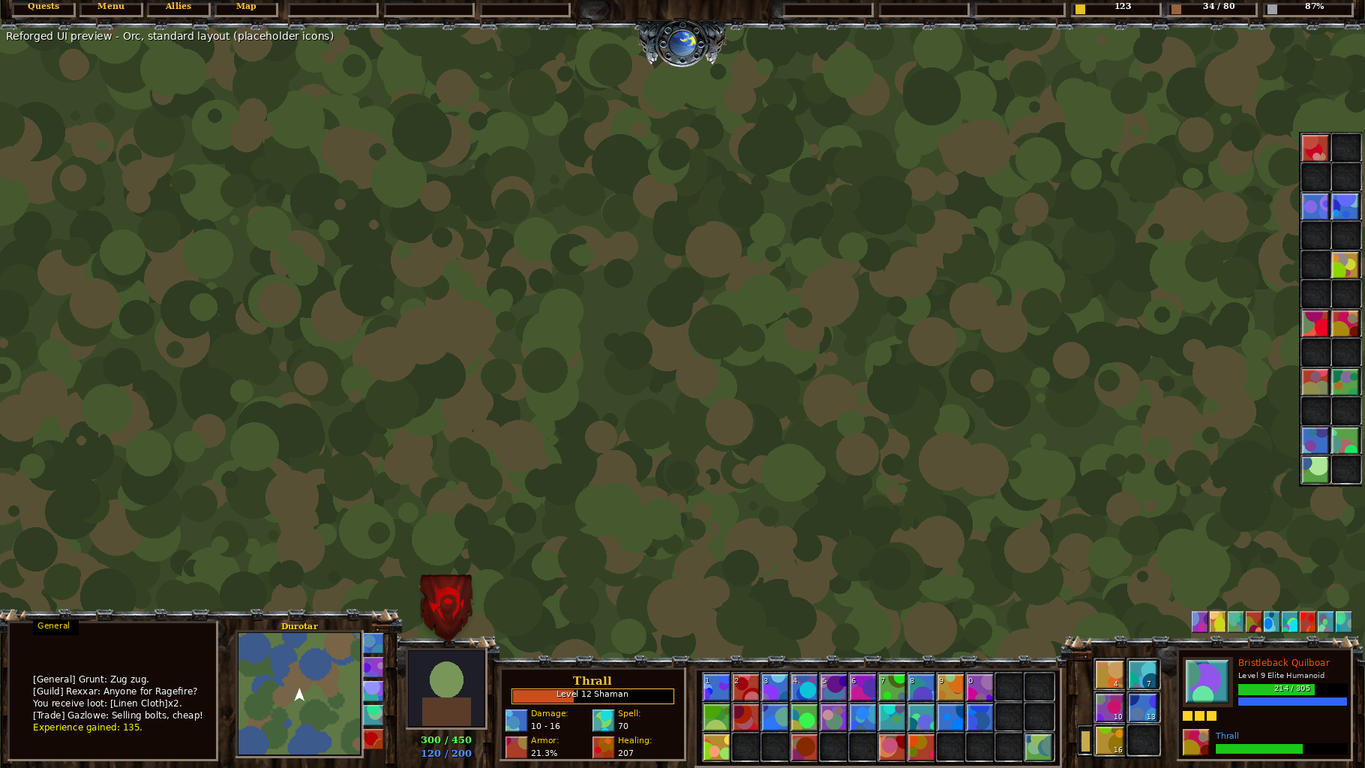
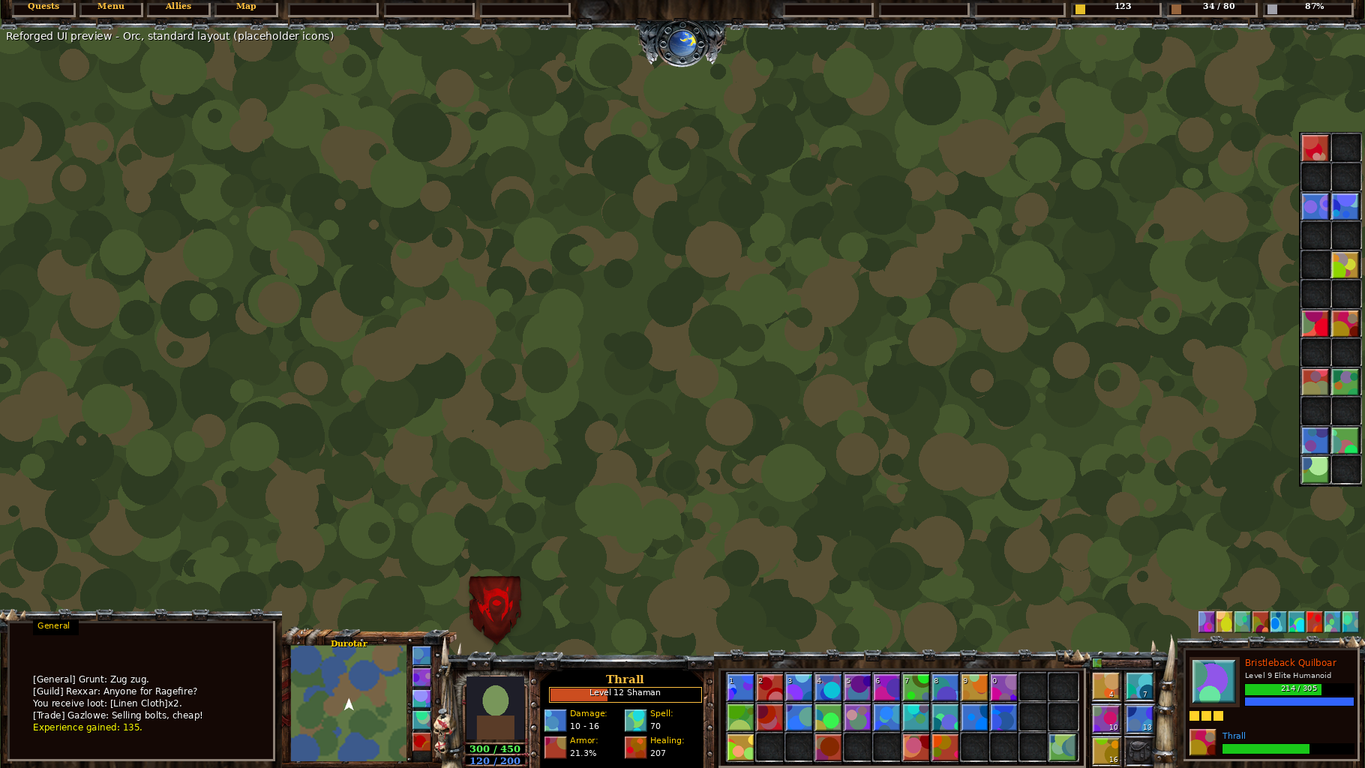
Build the minimap, portrait and bag blocks from the original addon's sections
The console now draws the original addon's minimap section (with its button column), its
arched portrait section with the hero screen, and its 2x3 inventory section,
and places the minimap, buttons, portrait, health/power text, stats and bag
slots in the windows painted into them. Chat, action bars 1-3 and the target
panel stay generic panels joined to the sections. The key ring sits on the
ledge above the bags.

Changed region(s): [[0.1538, 0.75, 1.0, 1.0]]

diff --git a/tools/render_preview.py b/tools/render_preview.py
@@ -190,9 +190,13 @@ def render(faction, w, h, profile, path, hour=15):
     panel(c, faction, L["base"], False)
     for p in L["panels"]:
         panel(c, faction, p, True)
+    for sec in L.get("sections", []):
+        tex = load(faction, "sections/" + sec["key"])
+        u1 = sec.get("u1", 1)
+        tex = tex.crop((0, 0, round(tex.width * u1), tex.height))
+        c.paste(tex, sec["x"], sec["y"], sec["w"], sec["h"])
     m = L["minimap"]
-    insets = list(L["insets"]) + [dict(x=m["x"] - 4, y=m["y"] - 4, w=m["w"] + 8, h=m["h"] + 8)]
-    for r in insets:
+    for r in L["insets"]:
         inset(c, theme, r)
 
     # minimap terrain placeholder
@@ -226,12 +230,10 @@ def render(faction, w, h, profile, path, hour=15):
                     c.text(x + 2, y + g["size"] - 14, 12, 12, str((i + 1) % 10 if i < 10 else "-"), 10,
                            (230, 230, 230), "left", True)
     k = L["keyring"]
-    c.paste(well, k["x"] - 3, k["y"] - 3, k["w"] + 6, k["h"] + 6)
-    c.rect(k["x"] + 3, k["y"] + 6, k["w"] - 6, k["h"] - 12, fill=(200, 170, 80, 255))
+    c.paste(icon(77, 32), k["x"], k["y"], k["w"], k["h"])
     g = L["inventory"]
     pad = round(g["size"] * 0.12)
     for i, x, y in grid_cells(g):
-        c.paste(well, x - pad, y - pad, g["size"] + 2 * pad, g["size"] + 2 * pad)
         if i < 5:
             c.paste(icon(500 + i, g["size"]), x, y, g["size"], g["size"])
             c.text(x + g["size"] - 14, y + 2, 12, 11, str(4 + i * 3), 9, (255, 255, 255), "left", True)

diff --git a/ReforgedUI/Media/SECTIONS.md b/ReforgedUI/Media/SECTIONS.md
@@ -29,3 +29,11 @@ with the `ext` trim pieces at 270x34.
 
 Rebuild with `D:\Blizzard\wc3-ui-extract\import_sections.py <console art source> ReforgedUI\Media`
 (kept outside the repo; it converts the original addon's RLE TGAs).
+
+## In use
+
+`Console.lua` draws `minimap` and `portrait` side by side (a 576-unit strip)
+and the left 208 pixels of `inventory` (bag grid and pillar), each at 288 units
+per 512 pixels; `Layout.lua` places the minimap, its button column, the
+portrait, health and power text, the hero screen and the bag buttons in the
+windows painted into them.
